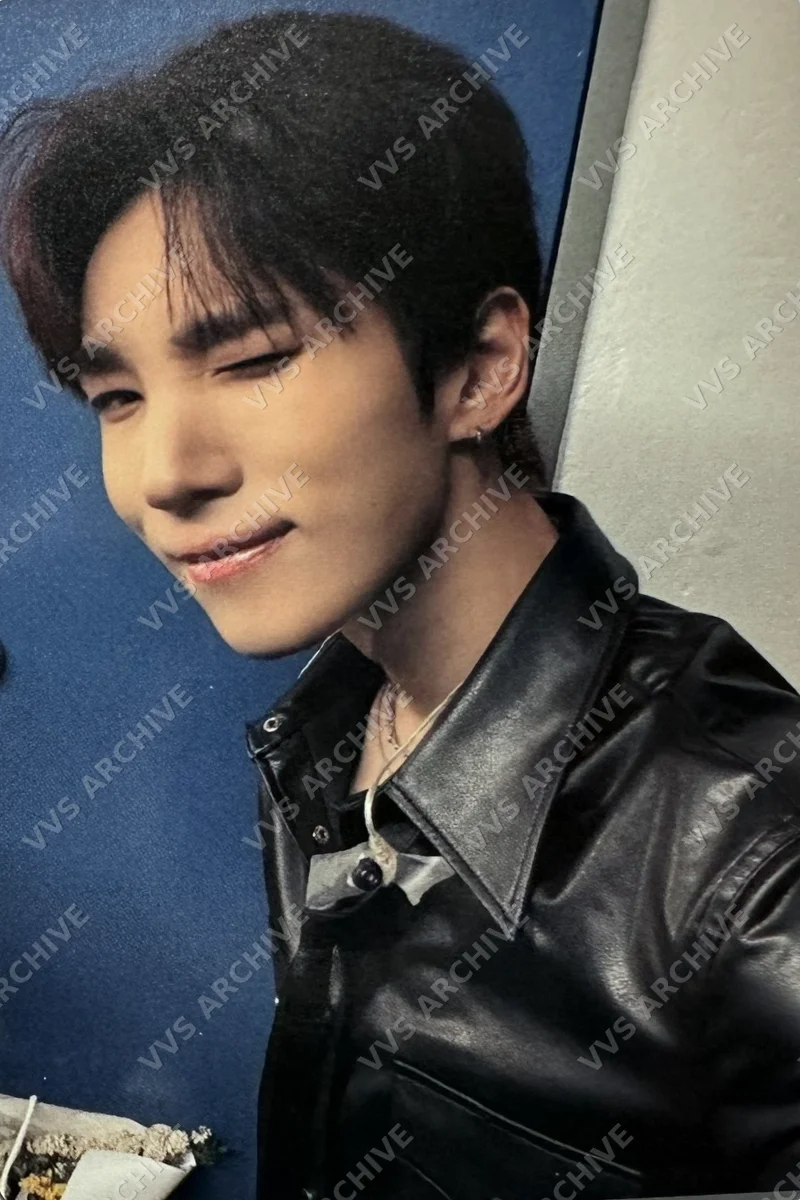
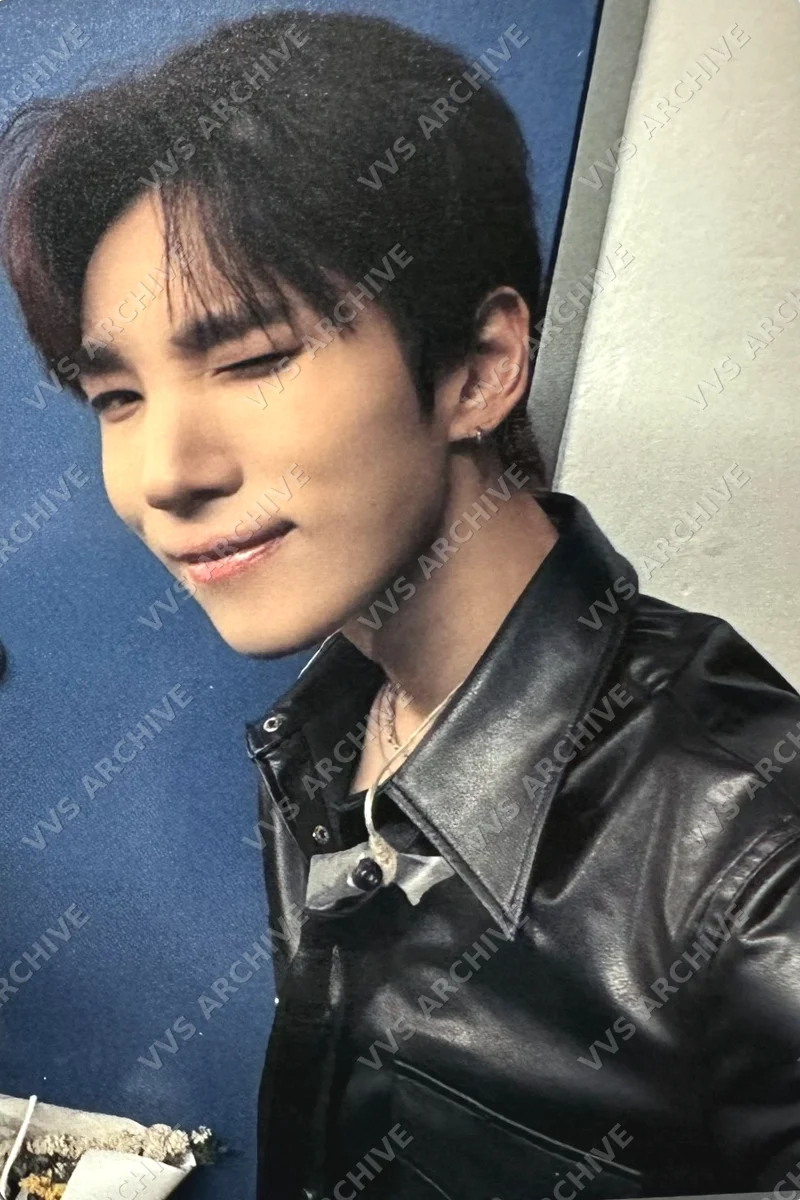
brightness

diff --git a/scripts/card_process.py b/scripts/card_process.py
@@ -142,7 +142,13 @@ def process_card_image(input_path, card_id, output_dir="public/cards"):
     try:
         cropped_bgr = crop_card(input_path)
         balanced_bgr = apply_white_balance(cropped_bgr)
-        standardized_bgr = cv2.resize(balanced_bgr, (800, 1200), interpolation=cv2.INTER_LANCZOS4)
+        # 調整亮度與對比度 (alpha: 對比度, beta: 亮度增益)
+        alpha = 1.1  # 可依需求微調對比度 (1.0 為原樣)
+        beta = 15    # 增加亮度數值 (正數調亮)
+        bright_bgr = cv2.convertScaleAbs(balanced_bgr, alpha=alpha, beta=beta)
+        
+        
+        standardized_bgr = cv2.resize(bright_bgr, (800, 1200), interpolation=cv2.INTER_LANCZOS4)
         
         # 加上此行檢查進入浮水印前的尺寸
         #print(f"DEBUG [{card_id}] Input to watermark shape: {standardized_bgr.shape}")

diff --git a/scripts/local_pipeline.py b/scripts/local_pipeline.py
@@ -114,7 +114,7 @@ def process_pipeline():
                 card_data = parse_card_metadata(card_id, category=category)
                 cards_data.append(card_data)
 
-                #shutil.move(file_path, os.path.join(DONE_DIR, filename))
+                shutil.move(file_path, os.path.join(DONE_DIR, filename))
                 print(f"   ✅ {card_id}")
             except Exception as e:
                 print(f"   ❌ {filename}: {e}")
